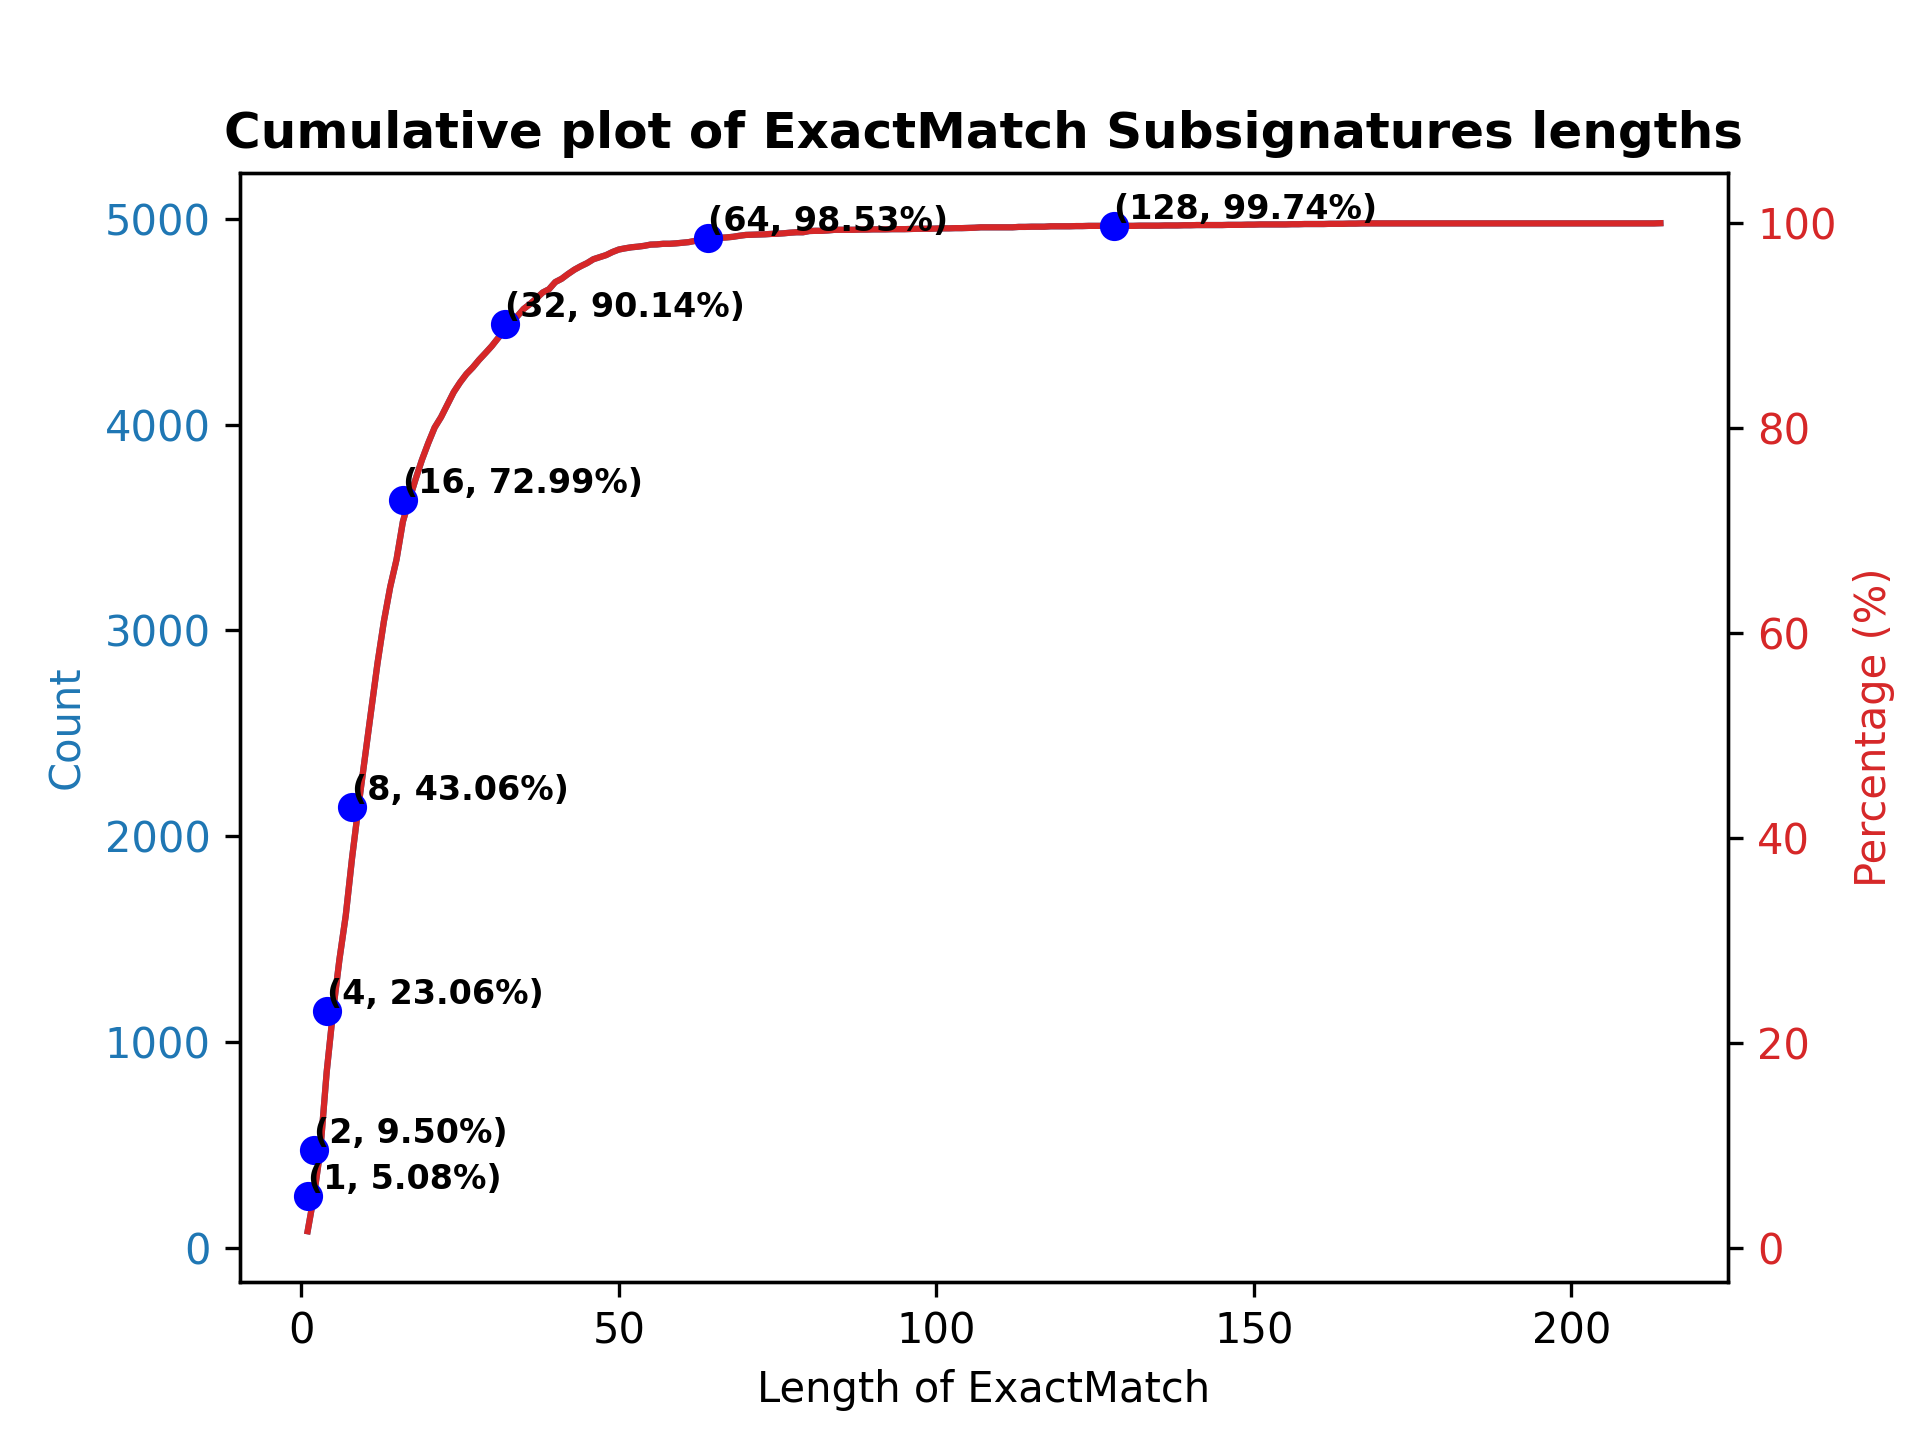
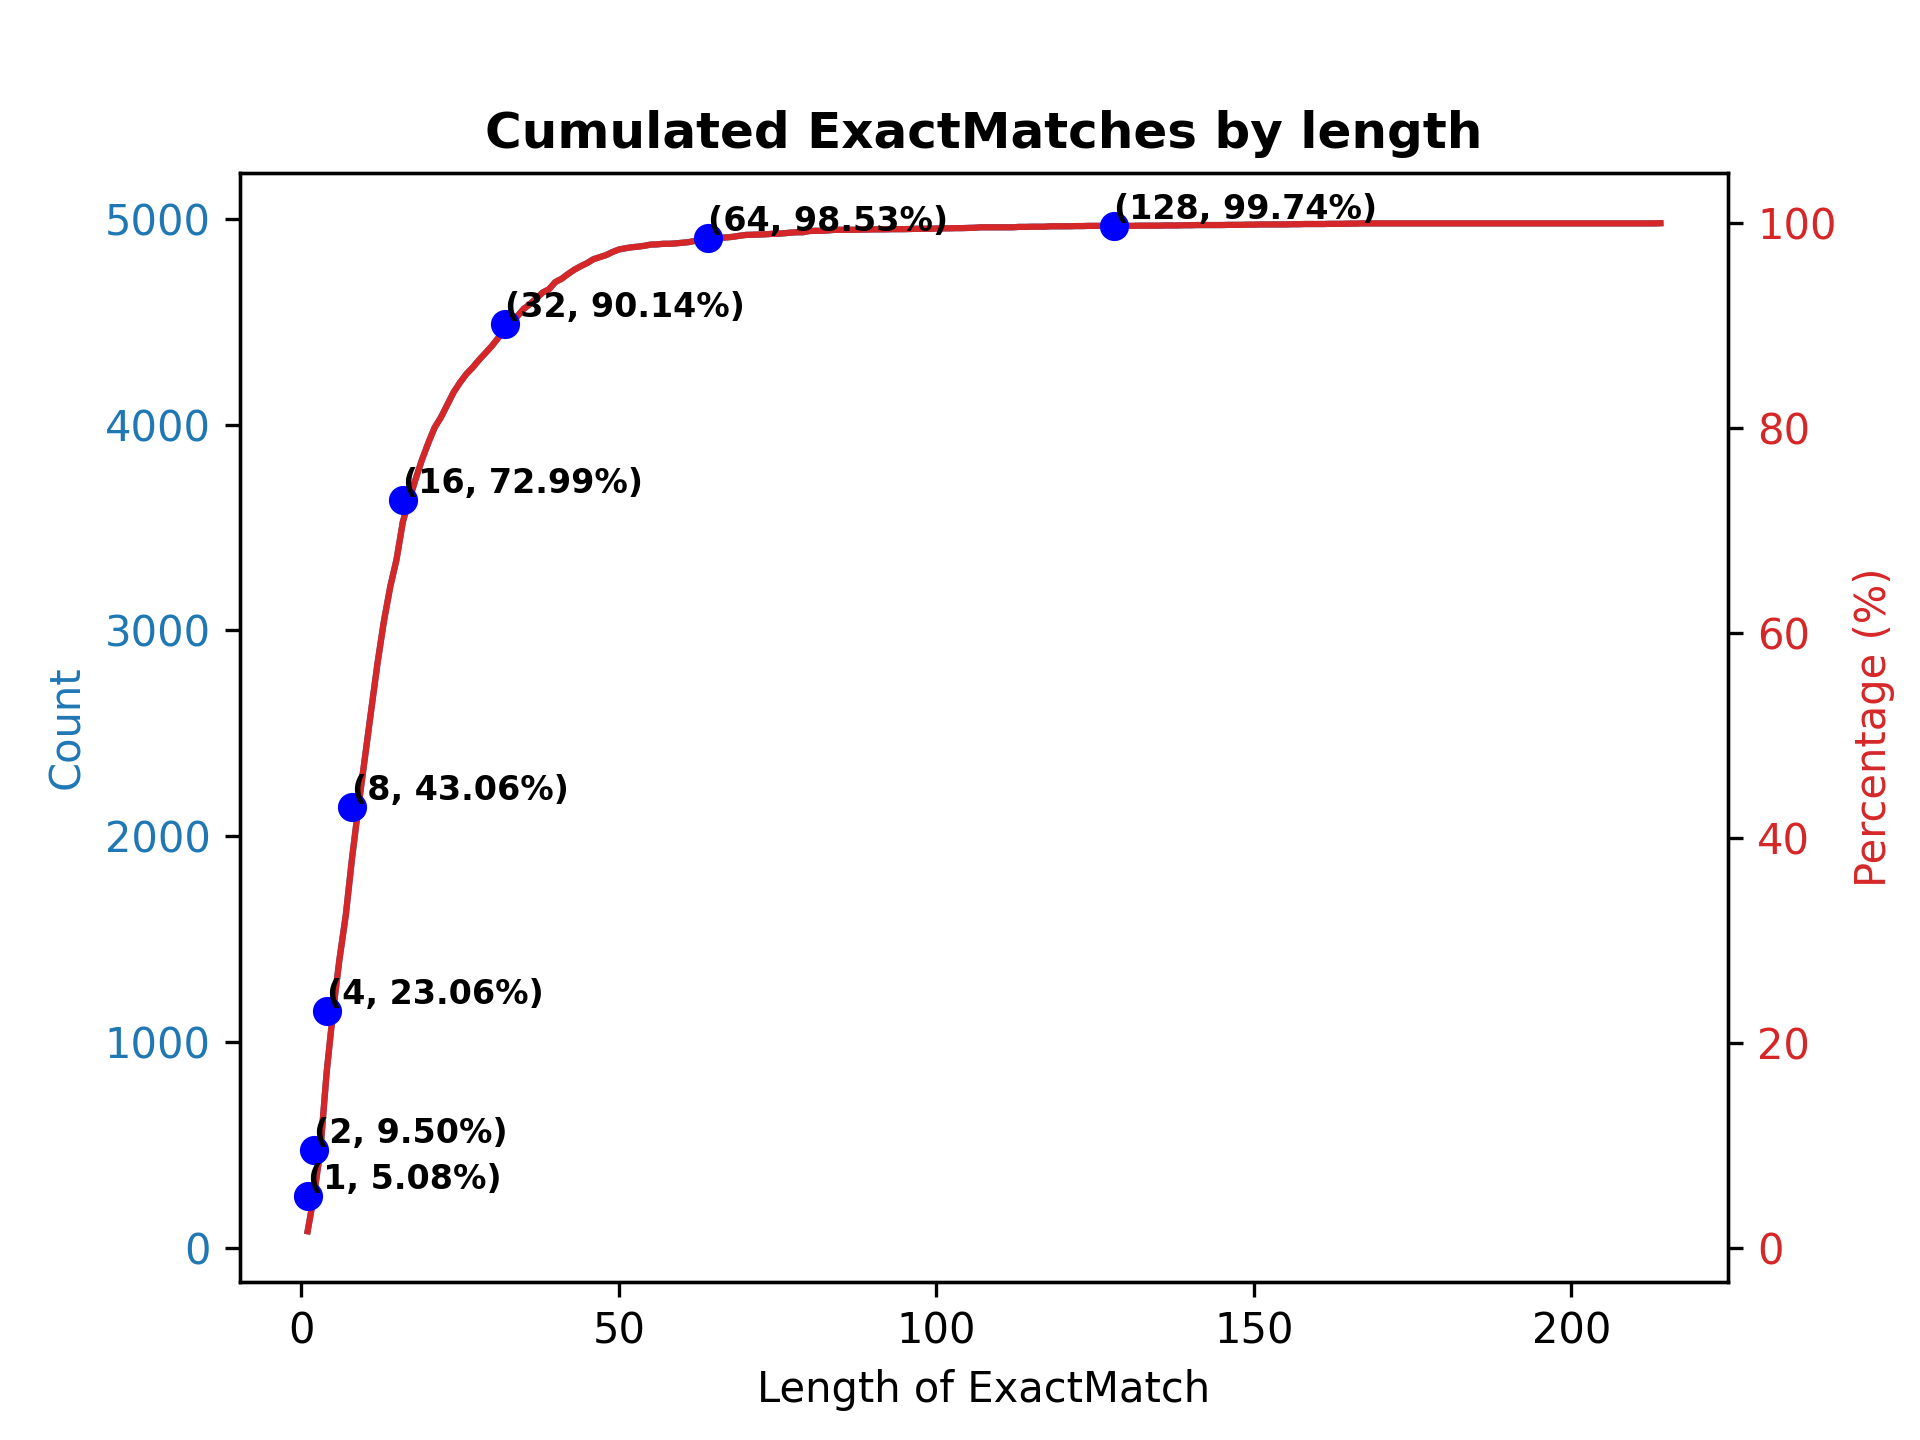
Update PartA * Fix plotting functions and update log messages

Changed region(s): [[0.125, 0.0625, 0.9062, 0.125]]

diff --git a/PartA_Data_Process/ResultsAnalysis.py b/PartA_Data_Process/ResultsAnalysis.py
@@ -22,12 +22,12 @@ total_content = 0
 total_exactmatches = 0
 unique_exactmatches = 0
 
+
 def plot_lost_rules_by_exactmatch_length(data_by_exactmatch, abs_save_path):
     """
-        A function used to plot the cumulated lost rules by the length of the exact_match.
+        A function used to plot the cumulated lost rules by the exactmatch length.
     """
     lost_rules_by_length = [1 for i in range(1, total_rules + 1)]
-    print(len(lost_rules_by_length))
 
     for line in data_by_exactmatch:
         for rule in line["rules"]:
@@ -36,12 +36,9 @@ def plot_lost_rules_by_exactmatch_length(data_by_exactmatch, abs_save_path):
 
     length = [i for i in range(1, max(lost_rules_by_length) + 1)]
     length_counts = [lost_rules_by_length.count(i) for i in range(1, max(lost_rules_by_length) + 1)]
-    print(length_counts)
     cumulative_counts = np.cumsum(length_counts)
     total_count = cumulative_counts[-1]
-    
-    cumulative_percentages = (cumulative_counts / total_rules) * 100
-
+    cumulative_percentages = (cumulative_counts / total_count) * 100
     fig, ax1 = plt.subplots()
 
     color = 'tab:blue'
@@ -63,7 +60,7 @@ def plot_lost_rules_by_exactmatch_length(data_by_exactmatch, abs_save_path):
 
     ax2.tick_params(axis='y', labelcolor=color)
     
-    plt.title('Cumulative plot of Lost Rules by ExactMatch Subsignatures lengths', fontweight='bold')
+    plt.title('Lost Rules by ExactMatch length threshold', fontweight='bold')
     plt.savefig(os.path.join(abs_save_path, 'cumulative_plot_lost_rules.png'), dpi=300)
     plt.close()  
 
@@ -103,7 +100,7 @@ def plot_cummulative_exactmatch_length(data_by_exactmatch, abs_save_path):
 
     ax2.tick_params(axis='y', labelcolor=color)
     
-    plt.title('Cumulative plot of ExactMatch Subsignatures lengths', fontweight='bold')
+    plt.title('Cumulated ExactMatches by length', fontweight='bold')
     plt.savefig(os.path.join(abs_save_path, 'cumulative_plot_exactmatches.png'), dpi=300)
     plt.close()  
     
@@ -123,14 +120,14 @@ def check_rules_with_no_signitures(data_by_signature, logger):
     else:
         logger.info(f'All rules still exist after the parsing')
         
-def check_rules_lost_while_parsing(data_by_signature, logger):
+def check_rules_lost_while_parsing(data_by_exactmatch, logger):
     """
         An auxiliary function used to find which rules where lost during 
     """
     global rules_lost_while_parsing
     rules_lost_while_parsing = list(range(1, total_rules + 1))
-    for line in data_by_signature:
-        if (len(line["exact_matches"]) == 0):
+    for line in data_by_exactmatch:
+        if (len(line["exact_match"]) == 0):
             continue
         for rule in line["rules"]:
             if (rule in rules_lost_while_parsing):
@@ -166,7 +163,7 @@ def main(data_by_signature, data_by_exactmatch, abs_save_path, logger):
            rules_lost_while_parsing 
    
     check_rules_with_no_signitures(data_by_signature, logger)
-    check_rules_lost_while_parsing(data_by_signature, logger)
+    check_rules_lost_while_parsing(data_by_exactmatch, logger)
     plot_cummulative_exactmatch_length(data_by_exactmatch, abs_save_path)
     plot_lost_rules_by_exactmatch_length(data_by_exactmatch, abs_save_path)
     
